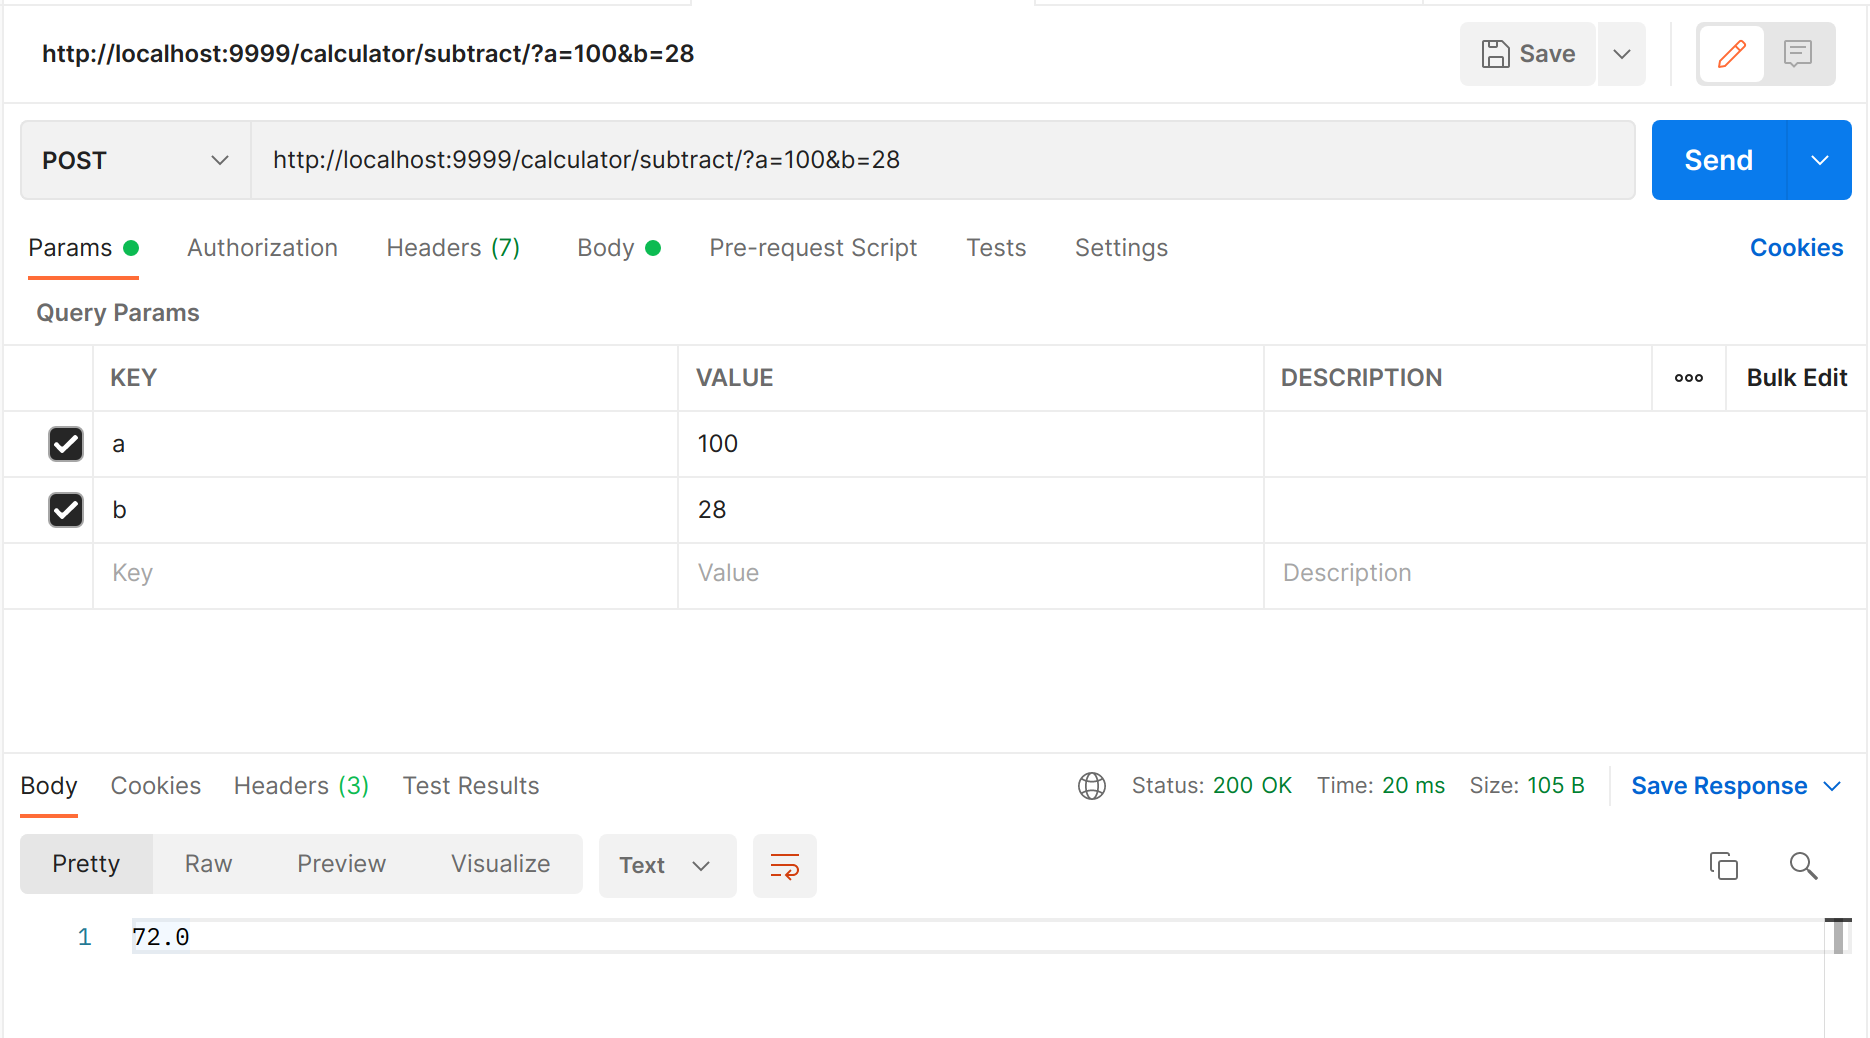
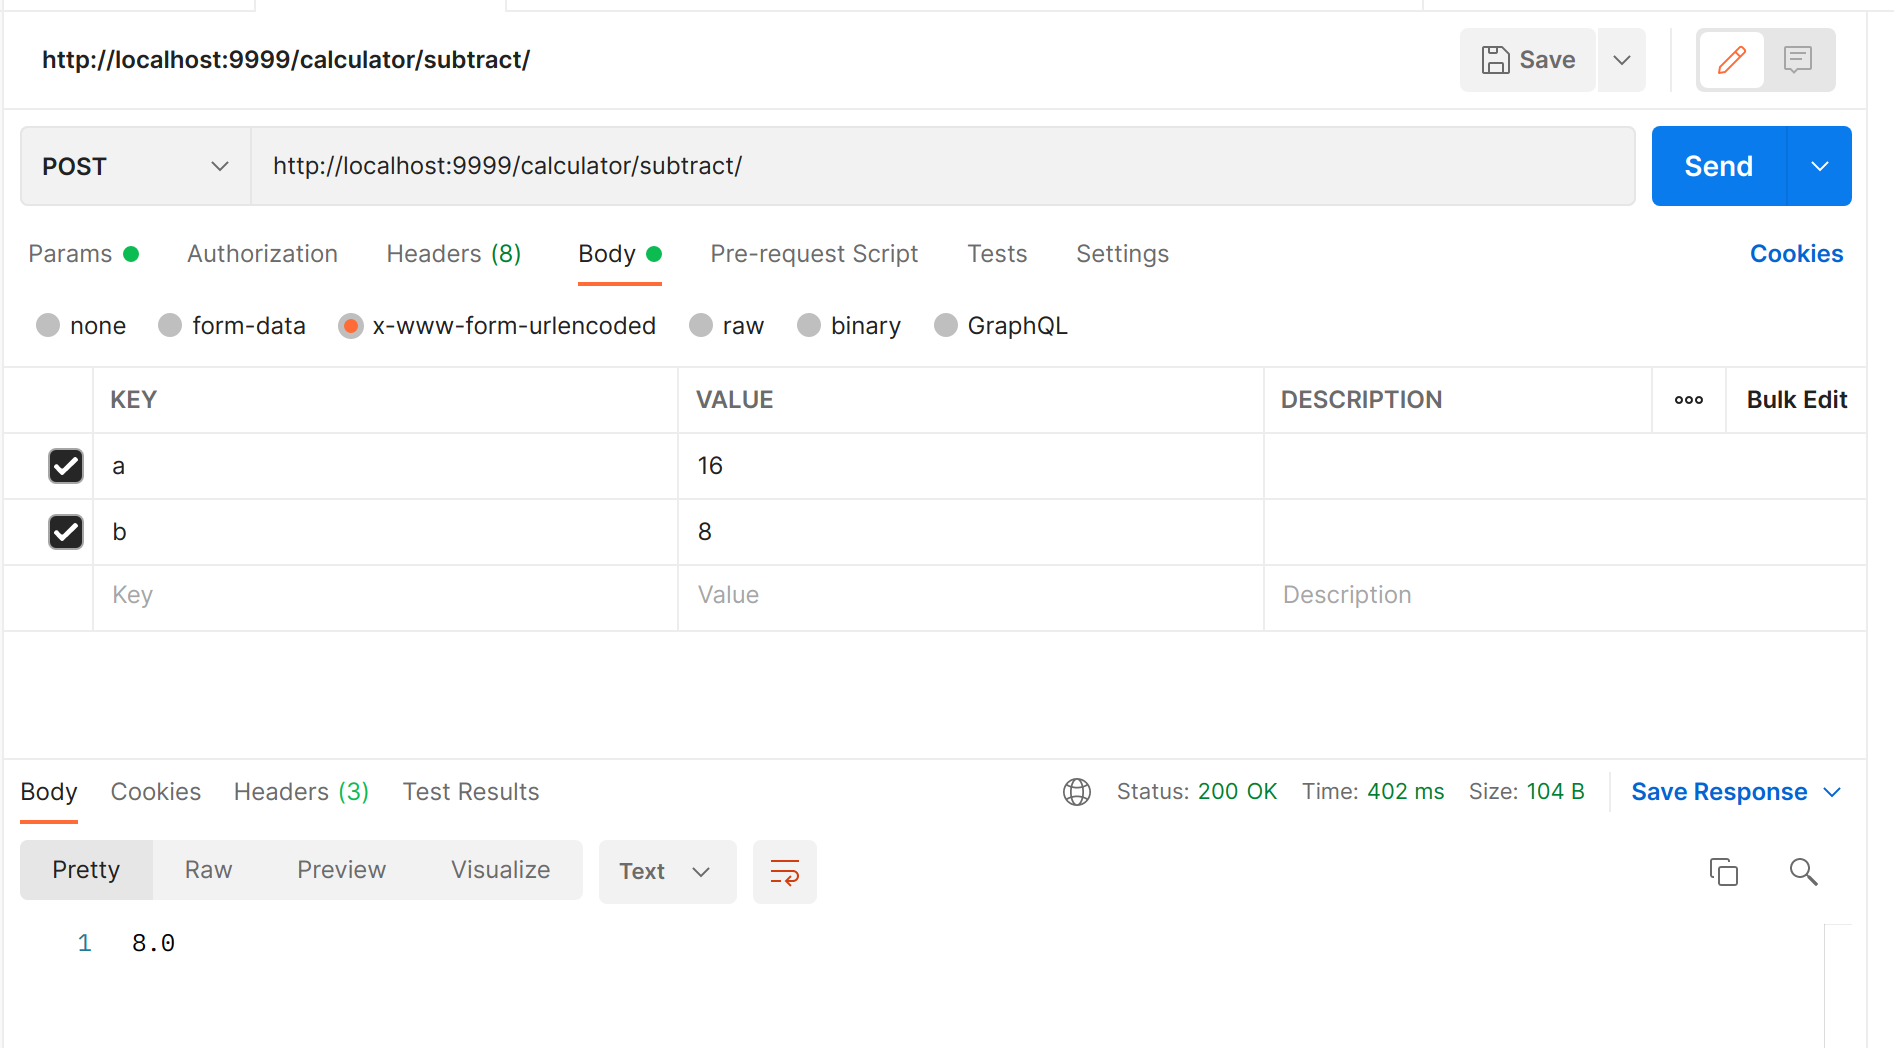
bug fix

diff --git a/lab1/CalcRestLab1Start/CalculatorRESTLab1Start/src/app/rest/controllers/CalculatorController.java b/lab1/CalcRestLab1Start/CalculatorRESTLab1Start/src/app/rest/controllers/CalculatorController.java
@@ -6,6 +6,7 @@ import javax.ws.rs.Path;
 import javax.ws.rs.Consumes;
 import javax.ws.rs.Produces;
 import javax.ws.rs.QueryParam;
+import javax.ws.rs.FormParam;
 import javax.ws.rs.core.MediaType;
 
 import org.slf4j.Logger;
@@ -17,10 +18,10 @@ import app.components.CalculatorComponent;
 
 @Component
 @Path("/calculator")
-public class Controller {
+public class CalculatorController {
 	
 	
-	Logger logger = LoggerFactory.getLogger(Controller.class);
+	Logger logger = LoggerFactory.getLogger(CalculatorController.class);
 
 	
 	@Autowired
@@ -38,7 +39,7 @@ public class Controller {
 	@Path("/subtract")
 	@Consumes(MediaType.APPLICATION_FORM_URLENCODED)
 	@Produces(MediaType.TEXT_PLAIN)
-	public double subtract(@QueryParam("a") double a, @QueryParam("b") double b)
+	public double subtract(@FormParam("a") double a, @FormParam("b") double b)
 	{
 		return calculator.subtract(a, b);
 	}
